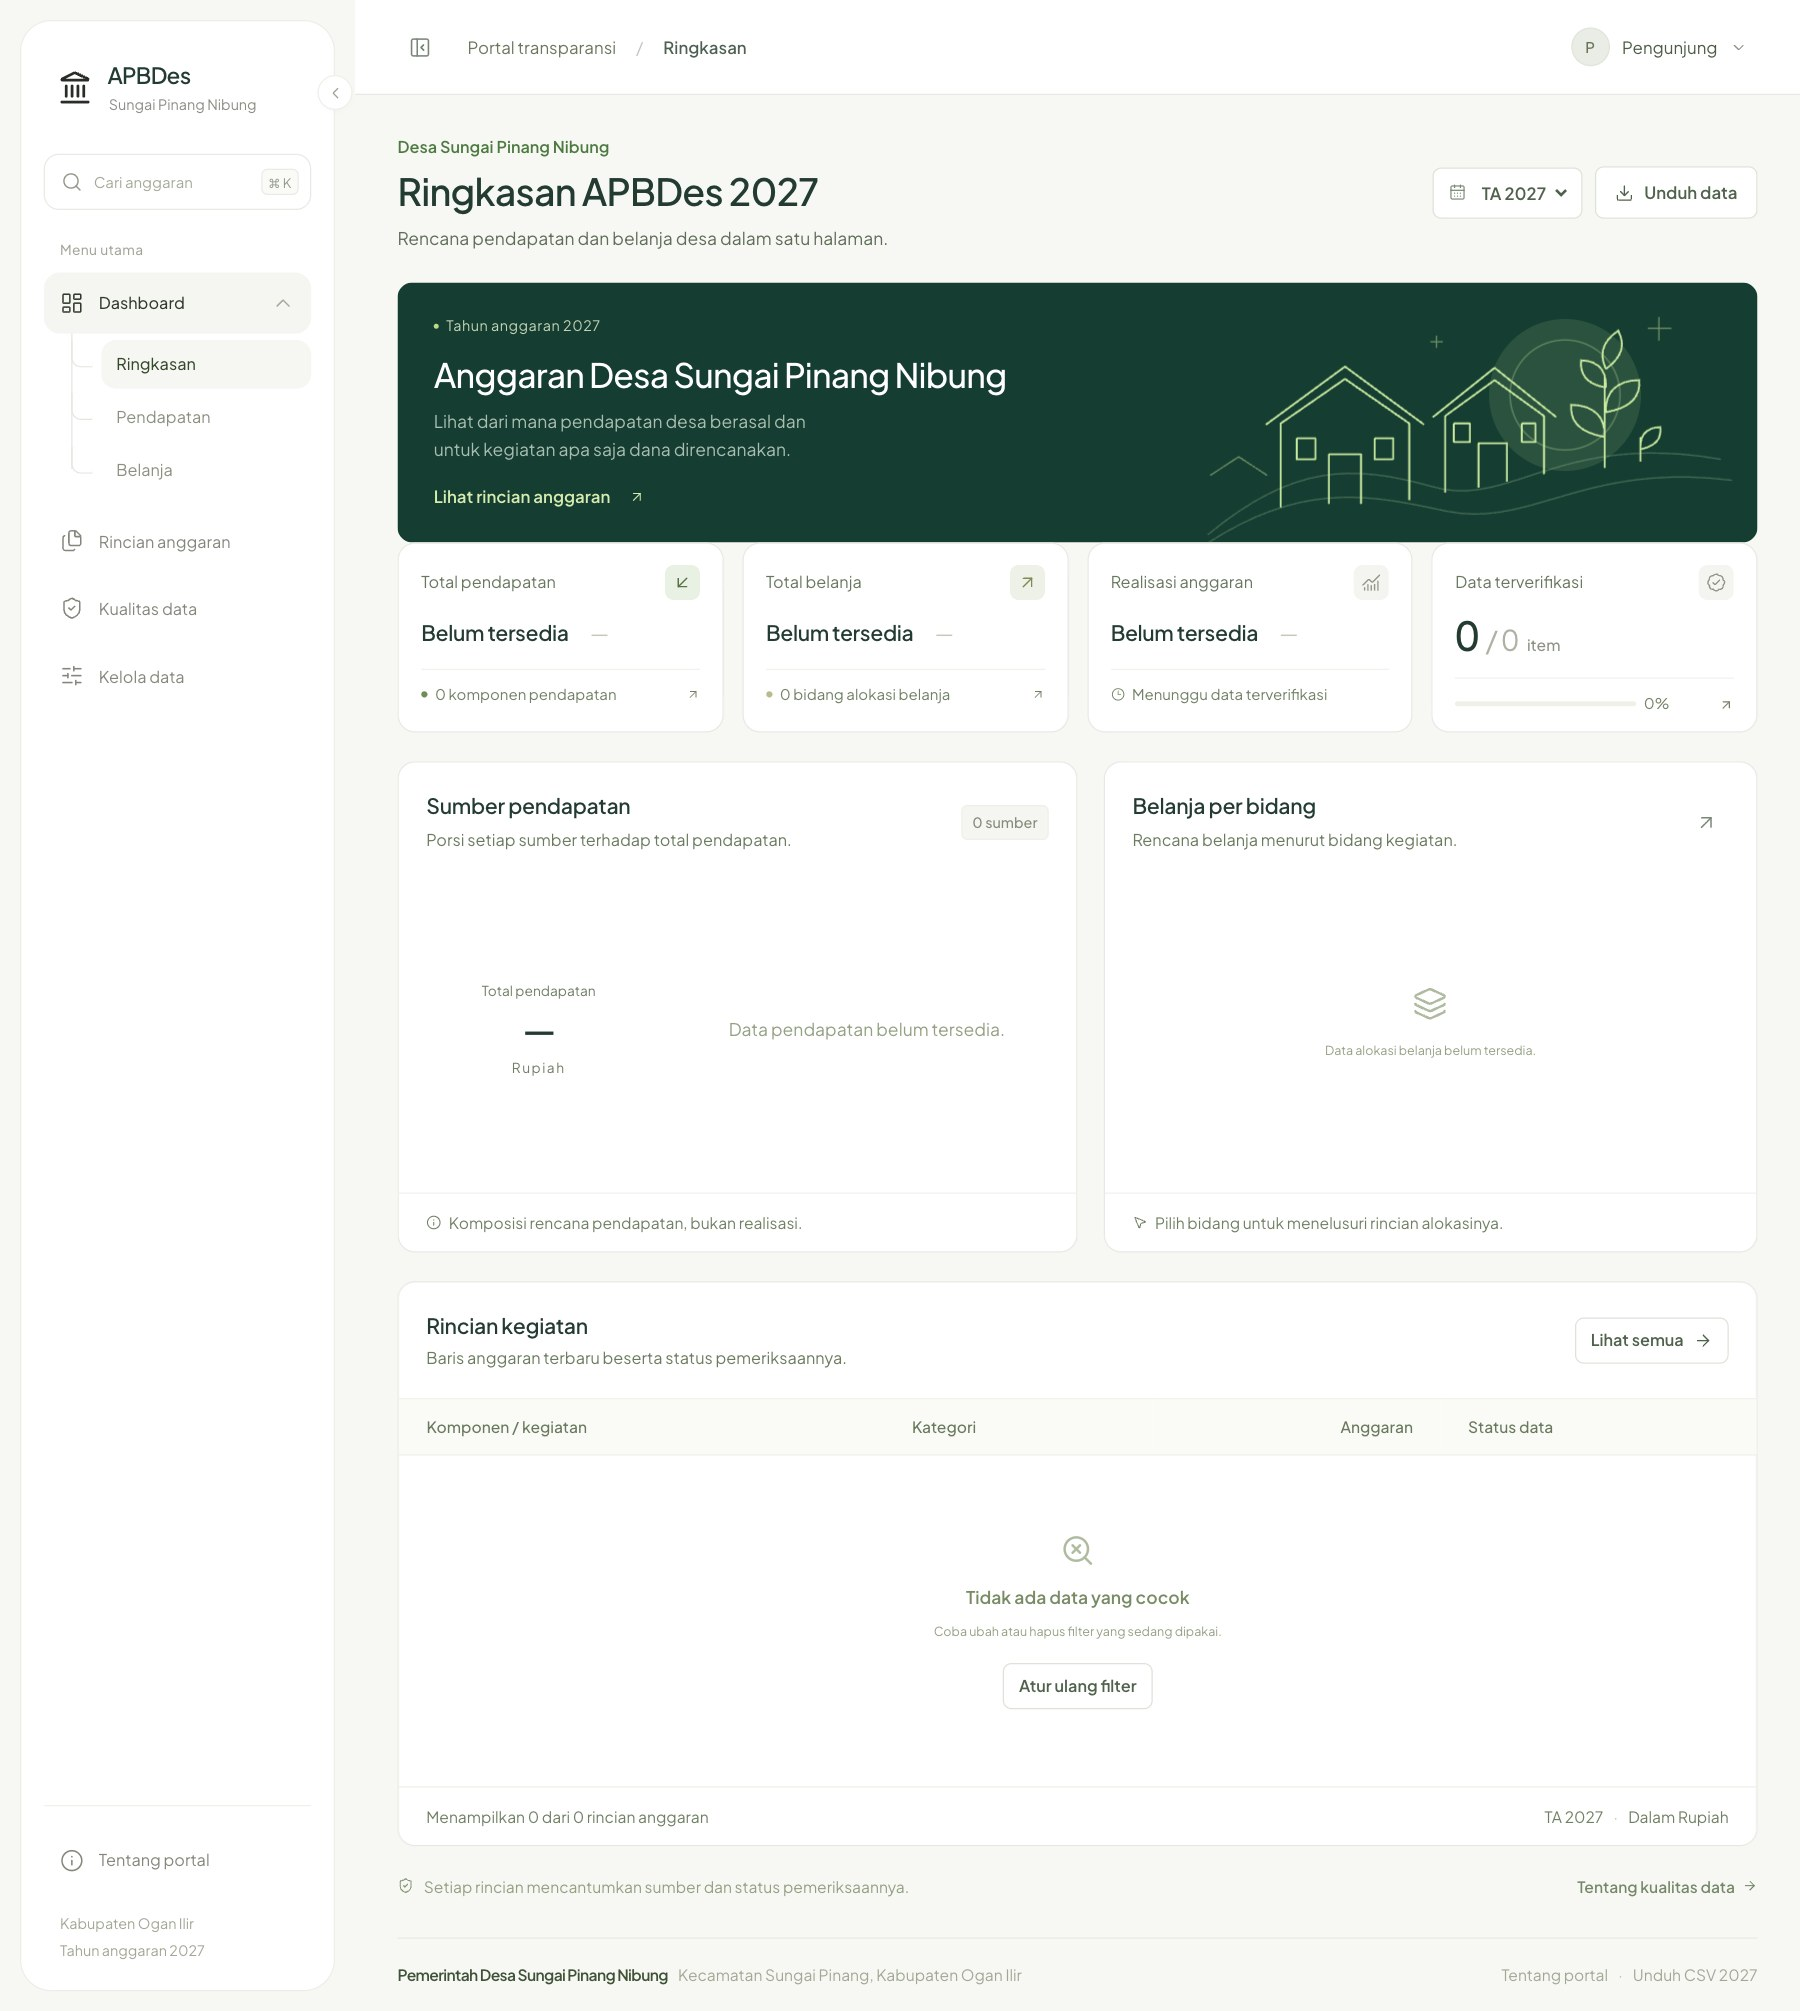
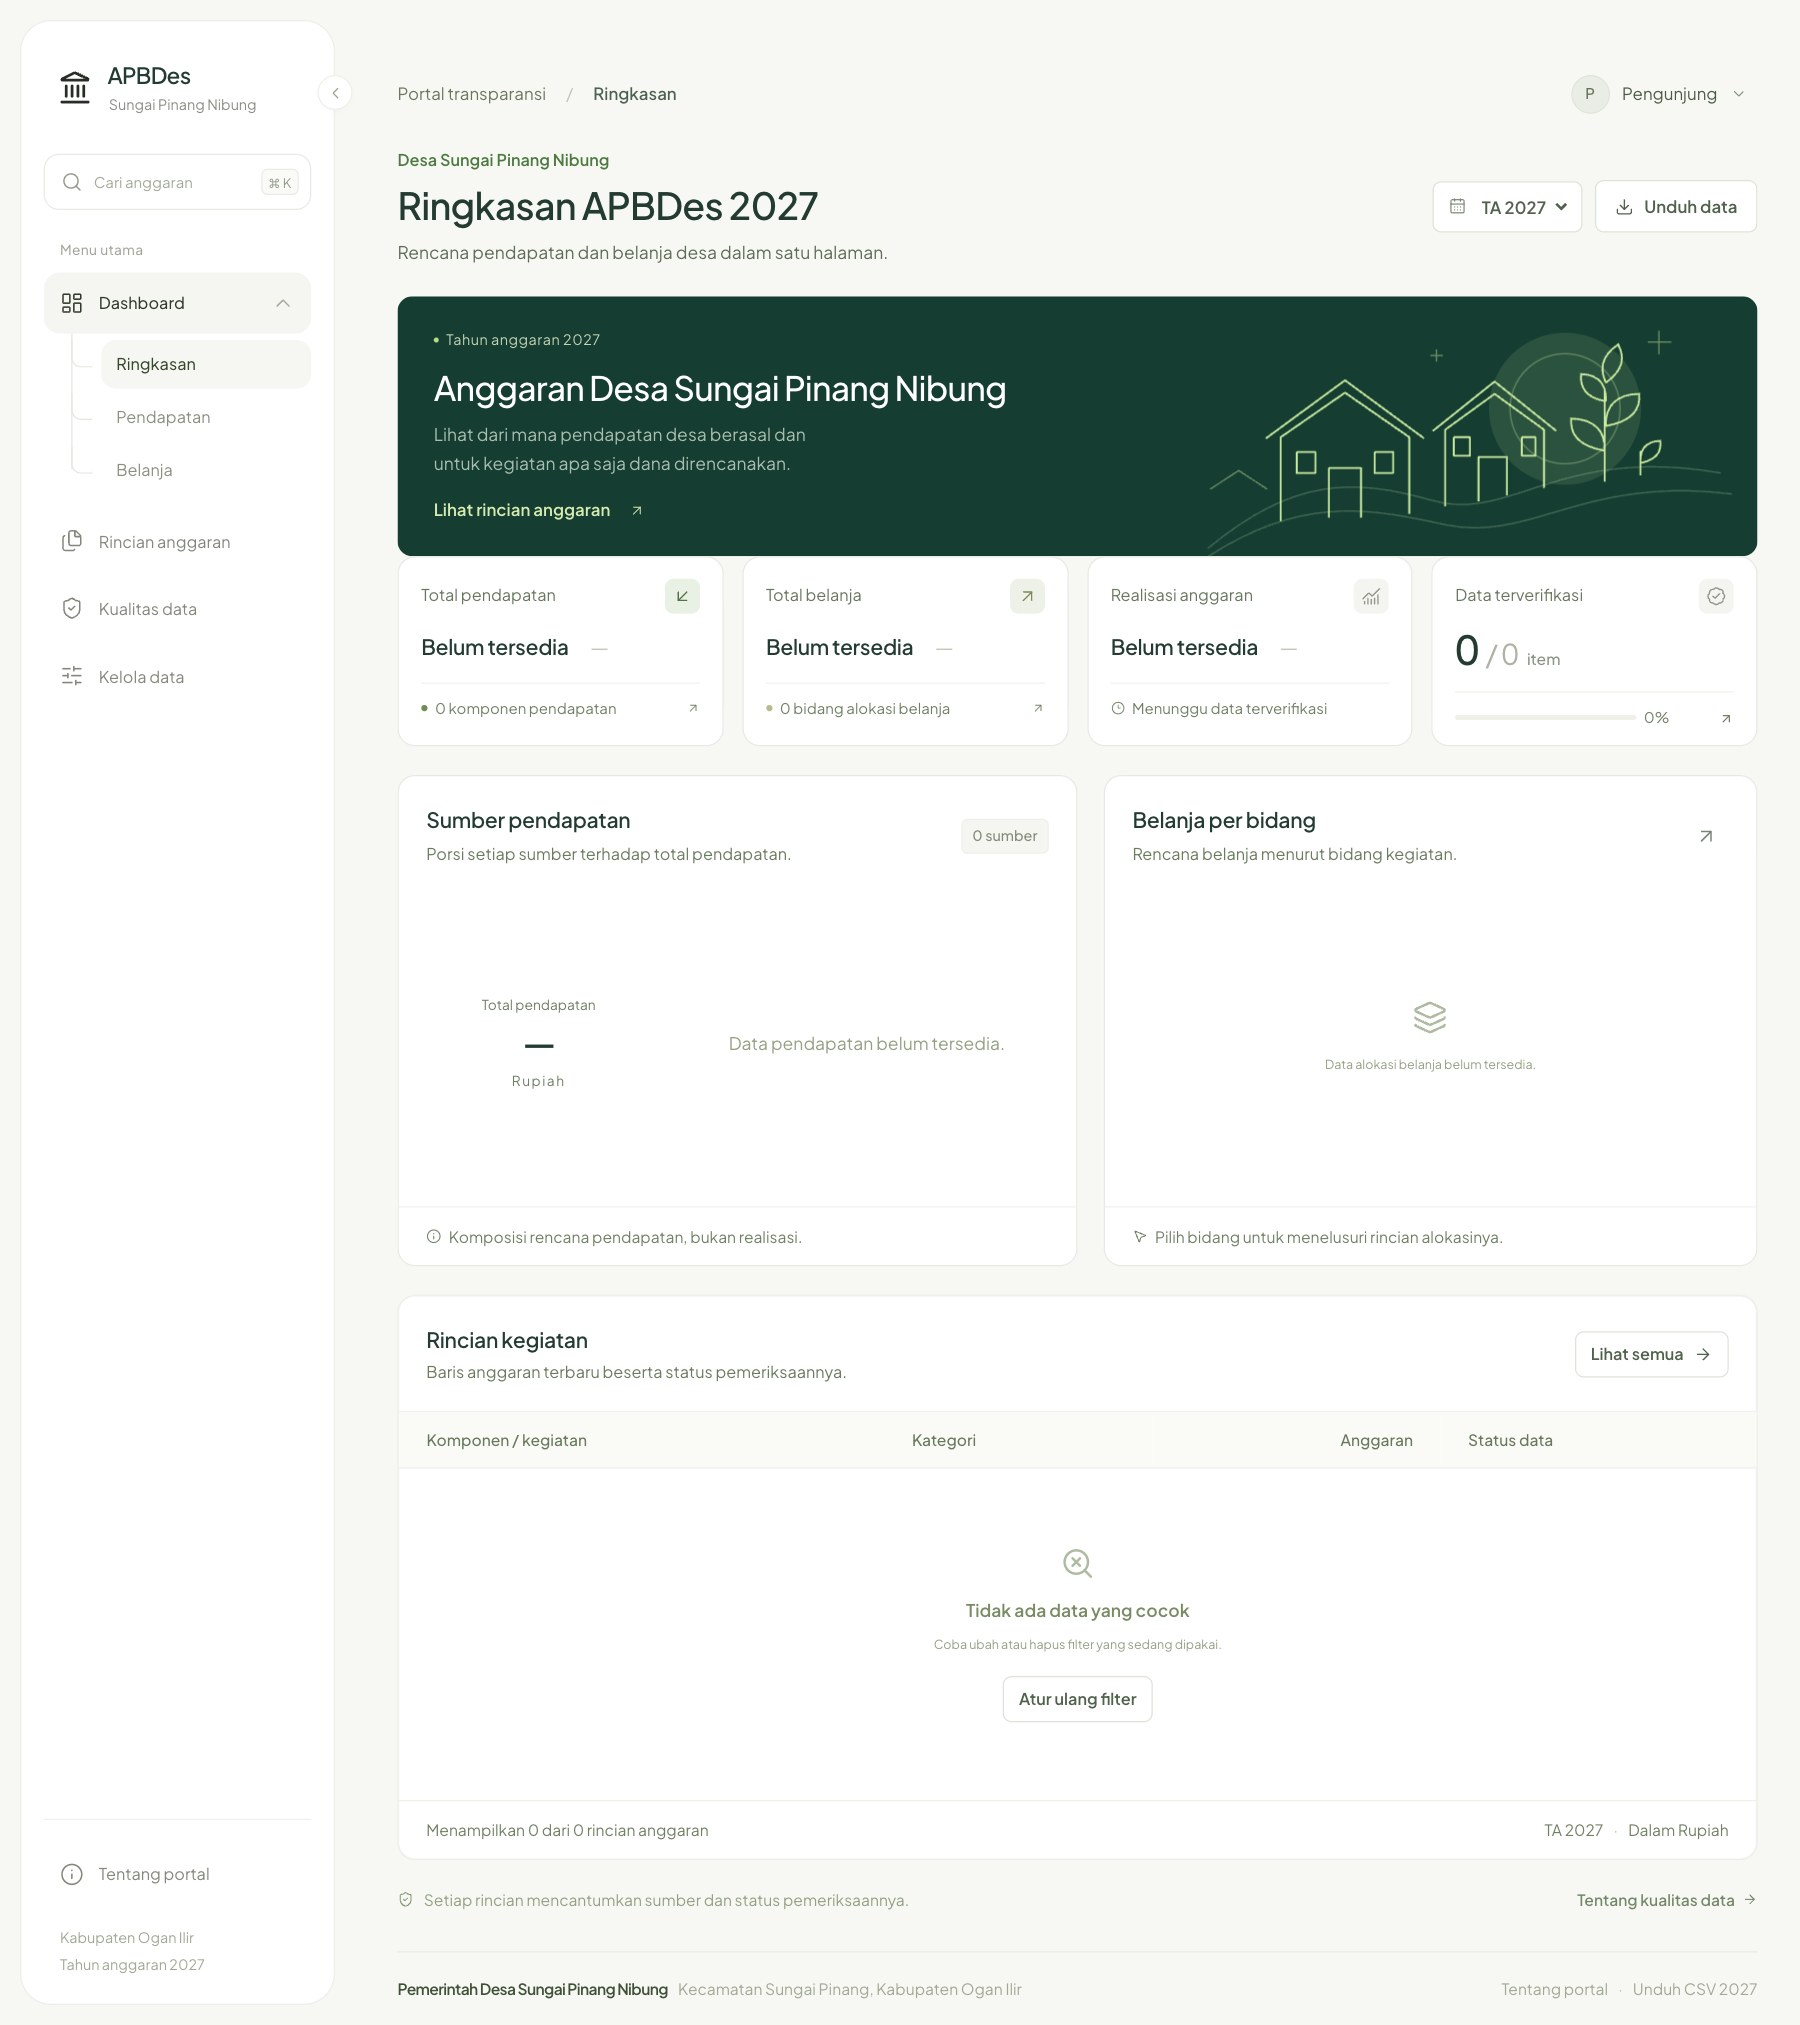
Rapikan topbar: satu tombol menu dan sejajar dengan sidebar
- Di desktop tombol panel di topbar disembunyikan karena fungsinya sama
  dengan tombol panah di tepi sidebar. Di ponsel tombol itu tetap ada
  untuk membuka menu.
- Topbar tidak lagi berupa pita putih bergaris; kini menyatu dengan
  latar dan sejajar dengan tombol panah sidebar, sementara breadcrumb
  lurus dengan judul halaman.
- Screenshot dan panduan diperbarui.

diff --git a/resources/css/secondary.css b/resources/css/secondary.css
@@ -640,3 +640,17 @@ html body .activity-item h3 { font-size: 14px !important; }
 html body .activity-item p { font-size: 13px !important; }
 html body .activity-meta { font-size: 12px !important; }
 html body .card-header .badge, html body .badge { font-size: 11.5px !important; }
+
+/* Topbar menyatu dengan latar dan sejajar dengan tombol panah di tepi
+   sidebar. Di desktop cukup satu tombol untuk meringkas menu (panah di
+   tepi sidebar); ikon panel hanya dipakai di ponsel untuk membuka menu. */
+html body .topbar { height: 96px; padding: 54px 34px 0; background: transparent; border-bottom: 0; box-sizing: border-box; }
+html body main { padding-top: 22px; }
+@media (min-width: 681px) {
+    html body .topbar .sidebar-toggle { display: none; }
+    html body .topbar-left { gap: 0; }
+}
+@media (max-width: 680px) {
+    html body .topbar { height: 64px; padding: 0 18px; }
+    html body main { padding-top: 8px; }
+}
